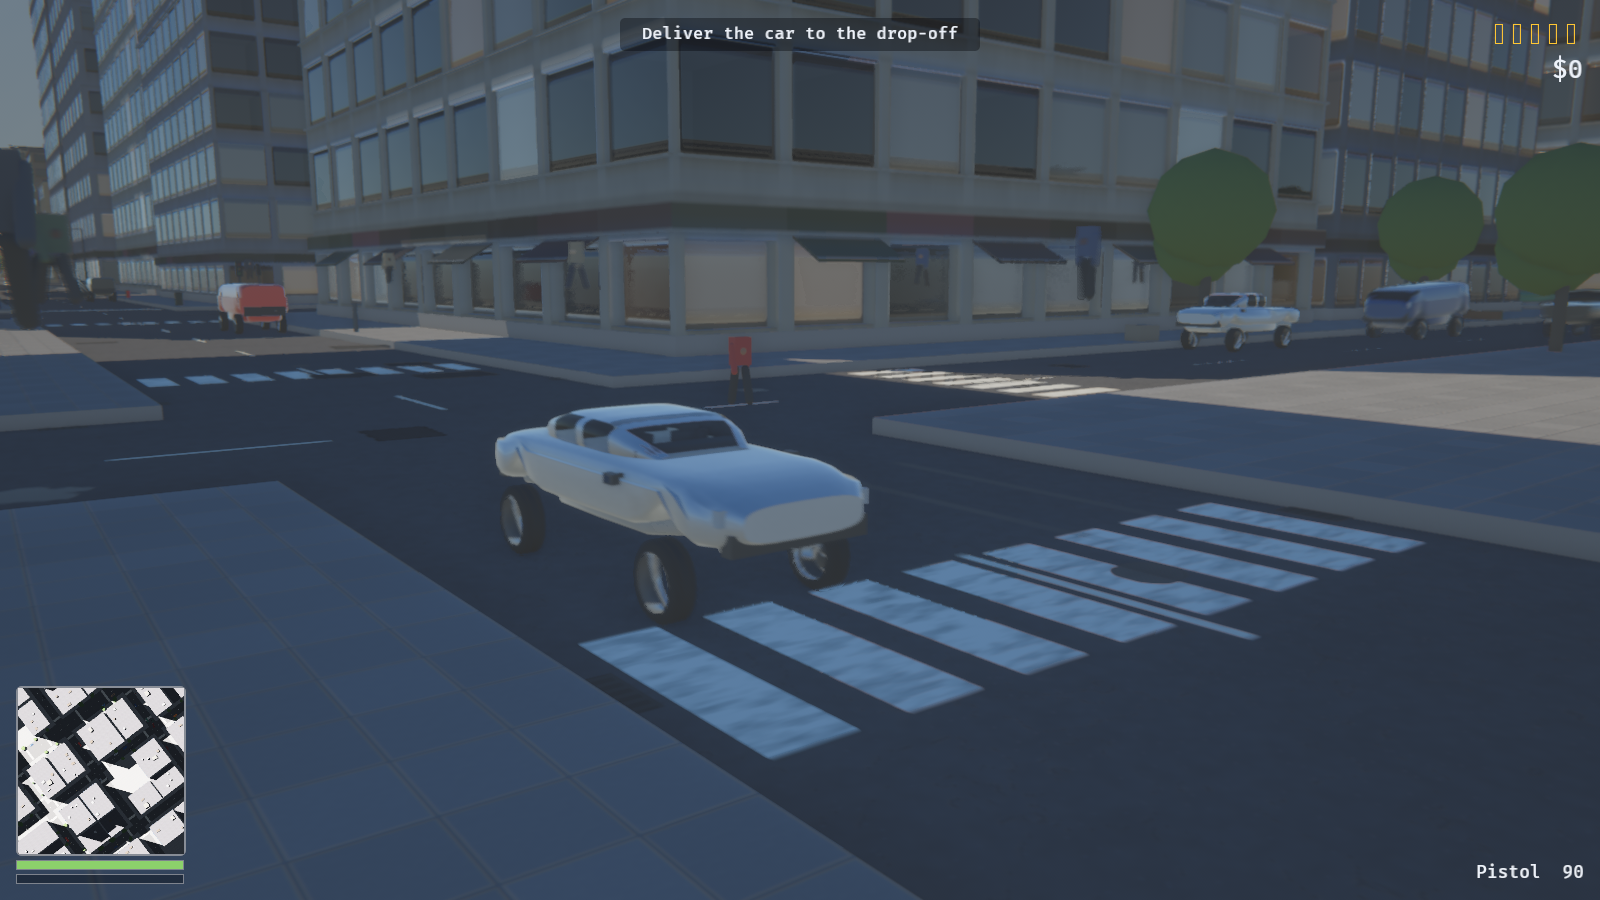
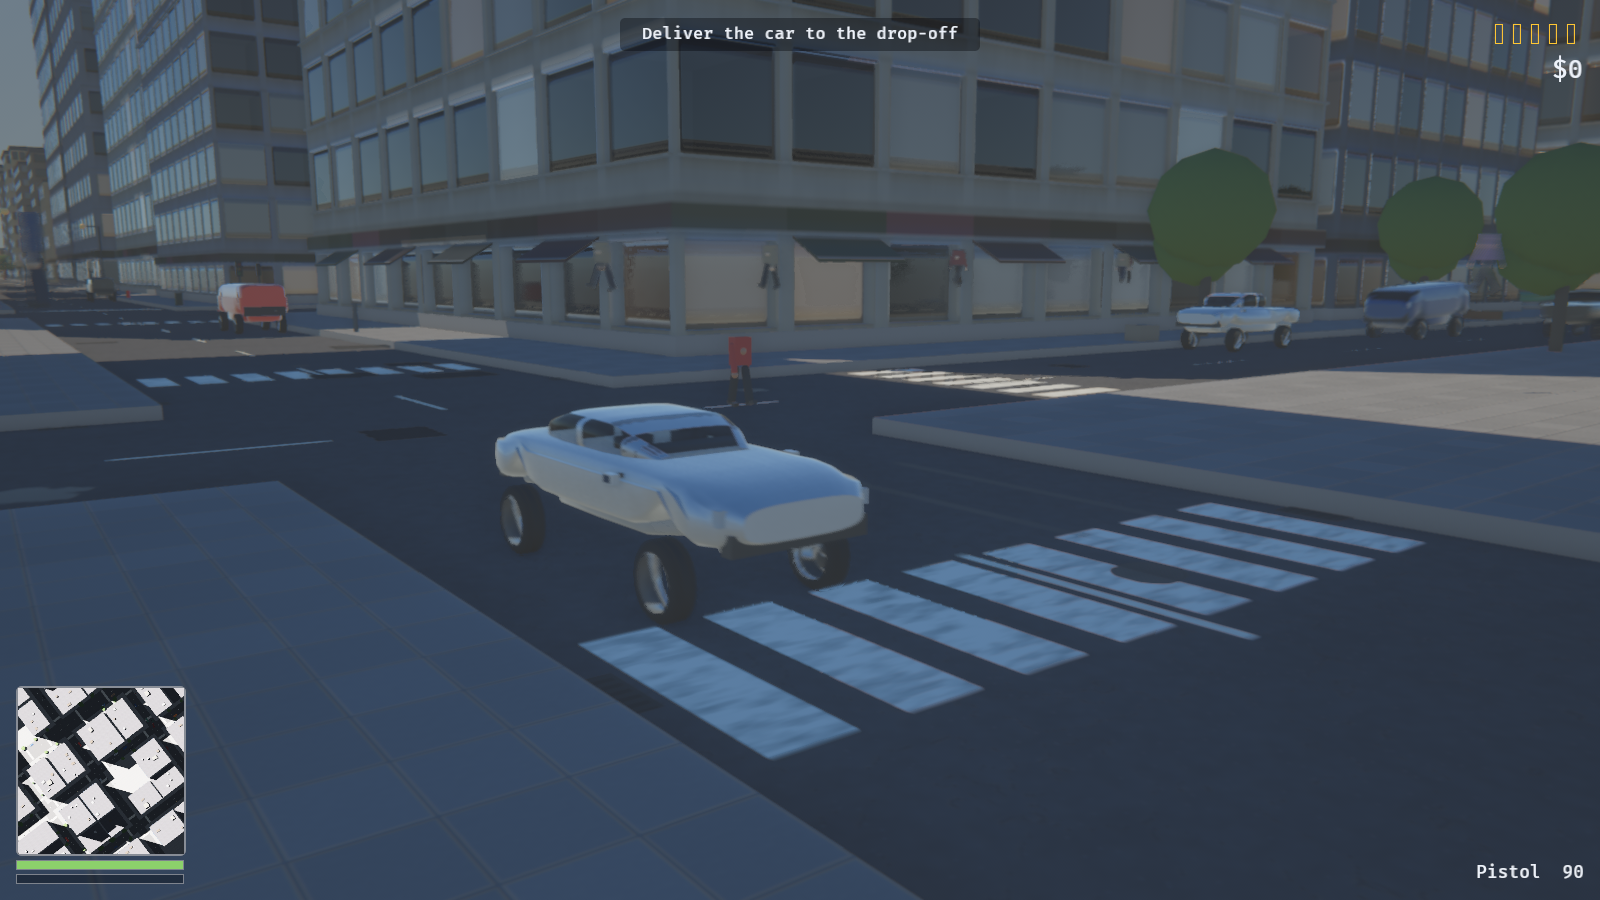
Stand the plates clear of the bumpers they were inside
Rendered, the registrations came back as dark rectangles. Both a plate
and a bumper are mounted off the same station, and the bumper is a box
a hand deep: five and a half centimetres out put the plate inside it.
That does not fail and does not warn — the plate is simply behind
painted steel, which looks like a plate that has come out grey.

Measured rather than nudged, so the test says what "clear" is: past the
bumper's outer face, not hanging below the car, and not climbing over
the headlights. Standing proud it is free to overlap the bumper, which
is where half the cars on the road carry theirs.

Claude-Session: https://claude.ai/code/session_01UH4d5ypxjmnYu4vaSy1xav

diff --git a/src/vehicle/trim.rs b/src/vehicle/trim.rs
@@ -43,6 +43,14 @@ pub struct TrimKit {
     pub plates: Vec<Handle<StandardMaterial>>,
 }
 
+/// How far a plate stands off the station it is measured at.
+///
+/// Far enough to clear the bumper, which is mounted off the same station and is
+/// a hand deep: a plate an inch out is *inside* it, which does not fail and
+/// does not warn — it comes back as a dark rectangle where a registration
+/// should be.
+const PLATE_STAND_OFF: f32 = 0.135;
+
 /// Outer radius of the steering wheel mesh, before it is scaled to a cabin.
 const WHEEL_RADIUS: f32 = 0.163;
 
@@ -408,8 +416,8 @@ pub fn fit(
     // and the front one is turned the other way.
     let registration = kit.plates[super::plate::registration_for(at)].clone();
     for (z, yaw) in [
-        (f.nose - 0.055, std::f32::consts::PI),
-        (f.tail + 0.055, 0.0),
+        (f.nose - PLATE_STAND_OFF, std::f32::consts::PI),
+        (f.tail + PLATE_STAND_OFF, 0.0),
     ] {
         parent.spawn((
             Mesh3d(kit.plate.clone()),
@@ -598,6 +606,47 @@ mod tests {
                 "{}: the plate is not between the bumper and the lamps",
                 spec.display_name
             );
+        }
+    }
+}
+
+#[cfg(test)]
+mod plate_fit {
+    use super::*;
+
+    #[test]
+    fn a_plate_is_not_buried_in_the_bumper_behind_it() {
+        // Both are mounted off the same station, and the bumper is a box a
+        // hand deep. A plate an inch off the station is inside it, which does
+        // not fail, does not warn, and comes back as a dark rectangle where a
+        // registration should be.
+        for class in VehicleClass::ALL {
+            let spec = class.spec();
+            let f = Fittings::of(class, &spec);
+            for (station, sign) in [(f.nose, -1.0f32), (f.tail, 1.0)] {
+                let bumper_face = station + sign * (0.06 + 0.14 * 0.5);
+                let plate = station + sign * PLATE_STAND_OFF;
+                assert!(
+                    plate.abs() >= bumper_face.abs(),
+                    "{class:?}: the plate at {plate} is inside a bumper reaching {bumper_face}"
+                );
+                // Standing proud, the plate is free to overlap the bumper —
+                // which is where half the cars on the road carry theirs. What
+                // it must not do is hang below the car or climb over the
+                // lamps.
+                let (bottom, top) = (
+                    f.plate_y - super::super::plate::SIZE.y * 0.5,
+                    f.plate_y + super::super::plate::SIZE.y * 0.5,
+                );
+                assert!(
+                    bottom >= f.bumper_y - f.bumper_half.y,
+                    "{class:?}: the plate's bottom edge at {bottom} hangs below the car"
+                );
+                assert!(
+                    top <= f.lamp_y,
+                    "{class:?}: the plate at {top} is over the headlights"
+                );
+            }
         }
     }
 }

diff --git a/README.md b/README.md
@@ -113,7 +113,7 @@ cargo run --features raytracing
 ## Development
 
 ```sh
-cargo test                                  # 279 tests
+cargo test                                  # 301 tests
 cargo clippy --all-targets -- -D warnings
 cargo fmt
 ```
@@ -636,6 +636,44 @@ ring points straddling the belt are pinned to it, which turns the step into a
 right angle no amount of tessellation can soften, and `split_creases` then
 duplicates the vertices along it so smoothing stops averaging across the fold.
 
+A greenhouse is glazed by cutting its own frame out of itself. The cabin is
+lofted once as a glass tube, and the pressings — the roof, the A, B and C
+pillars, the cowl sides, the rear quarters — are patches sampled off that same
+loft and lifted six millimetres clear of it. There is no separate pillar shape
+to model and nothing to keep in step: which part of the surface is steel and
+which is glass falls out of the two loft coordinates, so a pillar always agrees
+with the rake above it, and retuning a cabin moves both at once. What is left
+uncut is the daylight opening, and the table is written so the roof's ends are
+exactly where the pillars stop — the screen and the backlight are the gaps.
+
+Behind the glass there is a car. The same cabin loft is built a second time at
+ninety-eight and a half percent scale with its triangles wound inside out, which
+leaves backface culling showing the *far* wall of the interior, lit as though it
+faced you. Doing that in geometry rather than with a front-face cull is not a
+preference: a two-sided material does not survive the deferred path. Inside it
+are seats, head restraints and a wheel, all sized as fractions of the cabin's
+own headroom rather than in metres — written in metres they stood above the
+roofline of anything with a low roof and read as roll hoops on a convertible.
+Everything in there is very dark, for the same reason the rooms behind the
+windows are: the fragment is shaded by the same sun as the roof over it, so the
+number has to stand for the trim's albedo *and* for how little daylight gets in.
+
+Everything bolted to a car is measured off its own profile rather than off the
+collider box — lamps, bumpers, grille, mirrors, tailpipe, plates. A mount typed
+in by hand drifts from lofted bodywork silently, and the failure looks like a
+styling decision until somebody measures it: the mirrors were buried in the
+doors because they were mounted on the cabin's cross-section, which is a fifth
+of a metre narrower than the flank they belong on. Each mount is a station on a
+section at a stated fraction of its height, and the tests ask what would
+otherwise go unnoticed — that a lamp is set into the nose rather than bolted
+beside it, that the grille stops at the lamps' inner edges and not their
+centres, that nothing inside pokes out through the roof.
+
+Number plates are drawn: a 5×7 font, eight invented registrations, one material
+each shared city-wide, and which one a car wears hashed from where it spawned so
+it survives the chunk streaming out and back and no two cars parked nose to tail
+match.
+
 Wheels are surfaces of revolution with the tread and the spokes painted on and
 normal-mapped rather than modelled — geometry that fine is a blur above walking
 pace.
@@ -645,11 +683,31 @@ the occasional colour, because an evenly sampled rainbow reads as a toy box and
 it is the proportion of dull cars that makes the red one feel deliberate. Each
 colour carries its own flake content, and it goes on under a clearcoat.
 
+The flake itself is a normal map, tiled down to hand scale because the loft's
+UVs run nought to one over a whole car. Two frequencies: a facet every few
+texels for the aluminium suspended in the basecoat, and a much broader, much
+shallower undulation for the lacquer over it failing to settle flat. Neither
+of them is `anisotropy_strength`, which is what this was going to be — see the
+limitations.
+
 Crashes beat the metal in. The first real impact copies that car's panels off
 the archetype's shared mesh — everything else keeps batching — and pushes a
 dent into them along the direction the blow arrived from. The lacquer dulls, the
 flake stops reading, and past about a third gone the colour cooks off towards
-soot; below thirty percent it smokes.
+soot; below thirty percent it smokes. Damage recomputes the paint from the spec
+rather than nudging what is there, because a material edited in place drifts and
+a repaired car would stay dull — and it goes through the same function that
+paints a new one, since two copies of a formula agree only until somebody edits
+one.
+
+Headlights are real spot lights, given to cars with someone at the wheel and
+taken back at dawn; parked cars are excluded, because several hundred of them
+would be several hundred spot lights lighting the inside of their own bumpers.
+Above the fog-and-lights tier a beam is volumetric, which is what turns a lit
+patch of road into a pair of cones coming at you through the drizzle. The
+component goes on at the moment the beam is spawned rather than being attached
+by `render::volumetrics` — a beam is born at dusk and dies at dawn, and that
+system attaches its lights once and then sleeps on a change detector.
 
 ## Audio
 
@@ -727,6 +785,36 @@ pursuit, and everything but the player's own car is positioned in the world.
   nothing else. Furniture would need a second box test per fragment and a reason
   to believe anybody would look.
 
+- Metallic flake is not `anisotropy_strength`, and orange peel is not a
+  `clearcoat_normal_texture`. Both were the plan and both were measured out:
+  the deferred g-buffer carries base colour and roughness, emissive,
+  reflectance, metallic, occlusion, and clearcoat strength and roughness at
+  four bits each, plus exactly one octahedral normal. There is nowhere for a
+  second normal or a tangent direction to go, so those two fields are dropped
+  between the prepass and the lighting pass without a word. Anisotropy was the
+  wrong model anyway — it stretches the specular lobe along the tangent, which
+  is brushed metal and hair, where flake is isotropic. One normal map carries
+  both effects instead, which is the form that survives.
+
+- Car glass does not refract. `specular_transmission` was the plan and it was
+  measured out too: through a five-millimetre pane at a windscreen's rake, the
+  ray behind it is displaced by under two millimetres, which is sub-pixel at
+  any distance a car is ever seen from — for the cost of a transmissive pass
+  with its own copy of the screen. What reads as glass is a Fresnel edge and a
+  cabin behind it, and both of those are cheap.
+
+- A van's glazing is opaque. It lies *on* the front of the box rather than in a
+  hole through it, because a van has no greenhouse of its own to loft, so there
+  is no cab behind it to see — only the outside of the bodywork it is lying on.
+  It is also duller than a car's: at a windscreen's own roughness, an opaque
+  pane on a nose raked that hard is a mirror pointed at the sky and comes back
+  indistinguishable from paint.
+
+- Every car in the city shares eight registrations. One plate is one texture
+  and one material, and a plate per car would be a material per car in a place
+  that has several hundred of them parked. Eight is enough that a street does
+  not obviously repeat and not enough to survive being looked for.
+
 - Screen-space reflections can only reflect what is on screen. A car just out of
   frame stops appearing in the road under it. Light probes do not have that
   problem and cannot reflect anything that moves; the two are complementary and
@@ -735,7 +823,6 @@ pursuit, and everything but the player's own car is positioned in the world.
 - Pedestrians cross roads wherever their route turns, rather than at crossings.
 - Traffic has no right-of-way rules at junctions; it brakes for obstacles only —
   the signals above are the visible half of a rule that is not implemented.
-- Vehicle damage is not visually modelled — cars are wrecked, not deformed.
 - Facades are procedural, so walls read as materials rather than photographs.
   Scanning them needs a custom material with a detail UV; see above.
 - Six wall sets across five districts, so a long enough walk repeats. What
